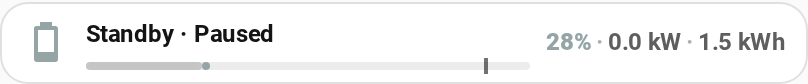
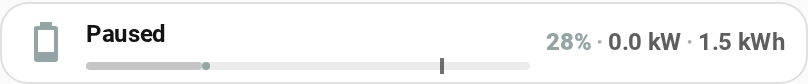
card: fit full layout on phone widths

Changed region(s): [[0.0928, 0.2857, 0.3403, 0.5476], [0.5879, 0.6905, 0.6188, 0.881], [0.526, 0.6905, 0.5569, 0.881]]

diff --git a/custom_components/eveus/frontend/eveus-card.js b/custom_components/eveus/frontend/eveus-card.js
@@ -124,7 +124,8 @@ class EveusCard extends HTMLElement {
     const s = this._s("state");
     if (!s) return "--";
     const txt = this._hass.formatEntityState ? this._hass.formatEntityState(s) : s.state;
-    return this._s("stop")?.state === "on" && !this._charging ? `${txt} · ${this._t.paused}` : txt;
+    // Stopped by the user reads as one word, so it fits a phone tile.
+    return this._s("stop")?.state === "on" && !this._charging ? this._t.paused : txt;
   }
 
   _eta() {
@@ -372,6 +373,7 @@ input[type=range]{width:100%;margin:0;accent-color:var(--primary-color);height:2
 .compact{padding:0}
 .compact .cp{border:none;background:none}
 .empty{padding:16px;color:var(--secondary-text-color)}
+@container (max-width: 440px){.st{padding:4px}.sr{gap:1px}.sr button{width:18px;height:18px;line-height:18px;font-size:13px;border-radius:6px}}
 @container (max-width: 350px){.t ha-icon{display:none}.t{padding:5px 7px}.sl .l{display:none}.g4{grid-template-columns:repeat(2,minmax(0,1fr))}.ch{font-size:11px}}
 `;
 
